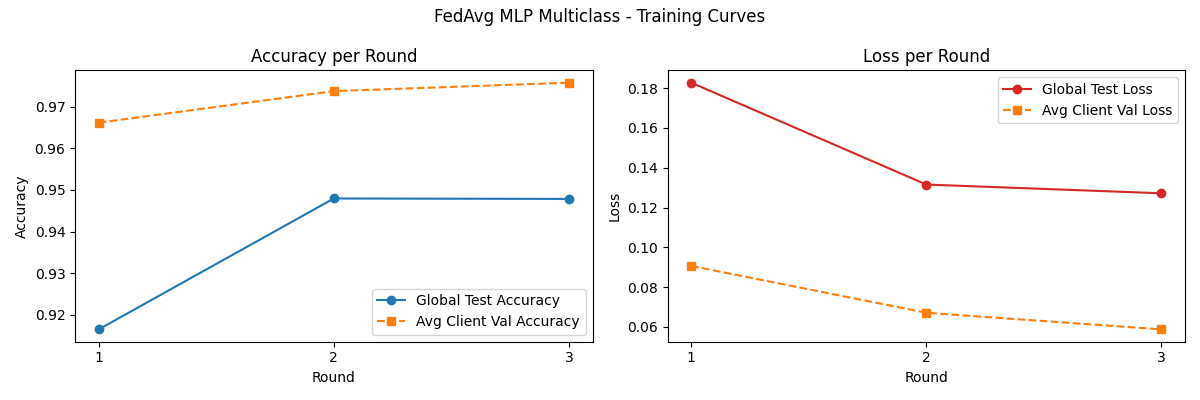
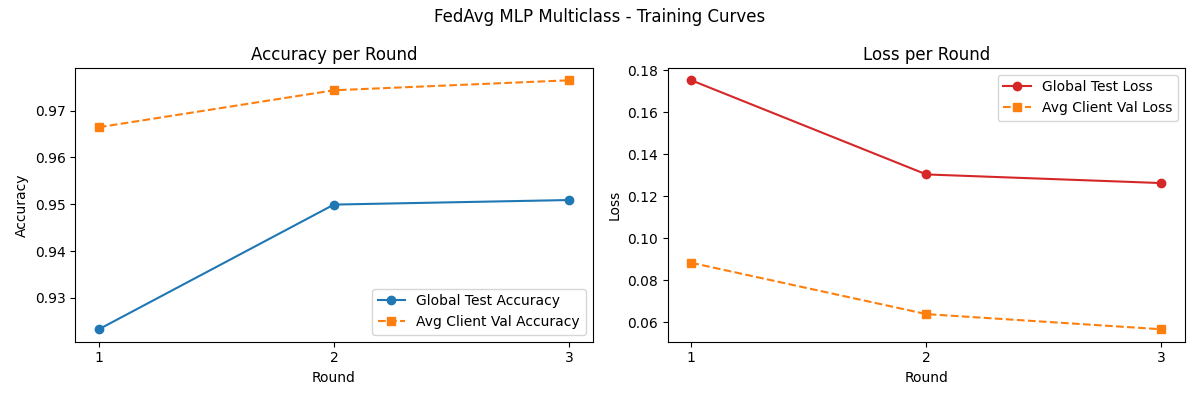
all charts images added + small naming changes

diff --git a/src/compare_models.py b/src/compare_models.py
@@ -40,8 +40,8 @@ if __name__ == '__main__':
     rf  = pd.read_csv(rf_csv).iloc[0]
     fed = pd.read_csv(fed_csv).iloc[0]
 
-    print(f'Random Forest → Accuracy: {rf["accuracy"]:.4f}  Macro-F1: {rf["macro_f1"]:.4f}')
-    print(f'FedAvg MLP    → Accuracy: {fed["accuracy"]:.4f}  Macro-F1: {fed["macro_f1"]:.4f}')
+    print(f'Random Forest - Accuracy: {rf["accuracy"]:.4f}  Macro-F1: {rf["macro_f1"]:.4f}')
+    print(f'FedAvg MLP    - Accuracy: {fed["accuracy"]:.4f}  Macro-F1: {fed["macro_f1"]:.4f}')
 
     """
     1. Overall metrics comparison from csv (accuracy, precision, recall, F1, FPR, FNR, AUC if binary)
@@ -70,7 +70,7 @@ if __name__ == '__main__':
     plt.title(f'Random Forest vs FedAvg ({suffix.capitalize()})- Overall Metrics')
     plt.legend()
     plt.tight_layout()
-    plt.savefig('charts/compare_models/comparison_{suffix}_rf_vs_fedavg_overall.png')
+    plt.savefig(f'charts/compare_models/comparison_{suffix}_rf_vs_fedavg_overall.png')
     plt.show()
 
     """
@@ -89,7 +89,7 @@ if __name__ == '__main__':
         axes[1].set_title('FedAvg MLP')
         fig.suptitle(f'Confusion Matrix Comparison ({suffix.capitalize()})- RF vs FedAvg')
         plt.tight_layout()
-        plt.savefig('charts/compare_models/comparison_{suffix}_rf_vs_fedavg_confusion.png')
+        plt.savefig(f'charts/compare_models/comparison_{suffix}_rf_vs_fedavg_confusion.png')
         plt.show()
     else:
         print('Confusion matrix PNGs not found — skipping that chart.')
@@ -112,15 +112,15 @@ if __name__ == '__main__':
         plt.title(f'Random Forest vs FedAvg ({suffix.capitalize()})- Per-Class F1')
         plt.legend()
         plt.tight_layout()
-        plt.savefig('charts/compare_models/comparison_{suffix}_rf_vs_fedavg_per_class_f1.png')
+        plt.savefig(f'charts/compare_models/comparison_{suffix}_rf_vs_fedavg_per_class_f1.png')
         plt.show()
 
     """
     4. ROC curves (binary only)
     """
     if cls == 'b':
-        rf_roc_path  = 'charts/rf/rf_binary_roc_curve.png'
-        fed_roc_path = 'charts/fedAvg/fedavg_{suffix}_roc_curve.png'
+        rf_roc_path  = f'charts/rf/rf_{suffix}_roc_curve.png'
+        fed_roc_path = f'charts/fedAvg/fedavg_{suffix}_roc_curve.png'
 
         if os.path.exists(rf_roc_path) and os.path.exists(fed_roc_path):
             fig, axes = plt.subplots(1, 2, figsize=(12, 5))
@@ -132,7 +132,7 @@ if __name__ == '__main__':
             axes[1].set_title('FedAvg MLP')
             fig.suptitle(f'ROC Curve Comparison ({suffix.capitalize()})- RF vs FedAvg')
             plt.tight_layout()
-            plt.savefig('charts/compare_models/comparison_{suffix}_rf_vs_fedavg_roc.png')
+            plt.savefig(f'charts/compare_models/comparison_{suffix}_rf_vs_fedavg_roc.png')
             plt.show()
         else:
             print('ROC curve PNGs not found — skipping that chart.')

diff --git a/src/mlp/compare_mlp.py b/src/mlp/compare_mlp.py
@@ -109,7 +109,7 @@ if __name__ == '__main__':
 
     fig.suptitle(f'Centralized MLP vs FedAvg ({suffix.capitalize()}- Training Curves & Time', fontsize=13, fontweight='bold')
     plt.tight_layout()
-    plt.savefig(f'charts/compare/comparison_mlp_vs_fedavg_{suffix}_training_curves_and_time.png')
+    plt.savefig(f'charts/compare_mlp/comparison_mlp_vs_fedavg_{suffix}_training_curves_and_time.png')
     plt.show()
 
     """
@@ -139,7 +139,7 @@ if __name__ == '__main__':
     plt.title(f'Centralized MLP vs FedAvg ({suffix.capitalize()})- Overall Metrics')
     plt.legend()
     plt.tight_layout()
-    plt.savefig(f'charts/compare/comparison_mlp_vs_fedavg_{suffix}_overall.png')
+    plt.savefig(f'charts/compare_mlp/comparison_mlp_vs_fedavg_{suffix}_overall.png')
     plt.show()
 
     """
@@ -158,7 +158,7 @@ if __name__ == '__main__':
         axes[1].set_title('FedAvg MLP')
         fig.suptitle(f'Centralized MLP vs FedAvg ({suffix.capitalize()})- Confusion Matrices')
         plt.tight_layout()
-        plt.savefig(f'charts/compare/comparison_mlp_vs_fedavg_{suffix}_confusion.png')
+        plt.savefig(f'charts/compare_mlp/comparison_mlp_vs_fedavg_{suffix}_confusion.png')
         plt.show()
     else:
         print('Confusion matrix PNGs not found — skipping.')
@@ -181,7 +181,7 @@ if __name__ == '__main__':
         plt.title(f'Centralized MLP vs FedAvg ({suffix.capitalize()})- Per-Class F1')
         plt.legend()
         plt.tight_layout()
-        plt.savefig(f'charts/compare/comparison_mlp_vs_fedavg_{suffix}_per_class_f1.png')
+        plt.savefig(f'charts/compare_mlp/comparison_mlp_vs_fedavg_{suffix}_per_class_f1.png')
         plt.show()
 
     """
@@ -201,7 +201,7 @@ if __name__ == '__main__':
             axes[1].set_title('FedAvg MLP')
             fig.suptitle(f'ROC Curve Comparison ({suffix.capitalize()})- MLP vs FedAvg')
             plt.tight_layout()
-            plt.savefig(f'charts/compare/comparison_mlp_vs_fedavg_{suffix}_roc.png')
+            plt.savefig(f'charts/compare_mlp/comparison_mlp_vs_fedavg_{suffix}_roc.png')
             plt.show()
         else:
             print('ROC curve PNGs not found — skipping.')

diff --git a/src/mlp/mlp_model.py b/src/mlp/mlp_model.py
@@ -34,7 +34,7 @@ def make_mlp(cls=DEFAULT_CLS):
             Input(shape=(18,)),
             Dense(256, activation='relu'),  
             Dense(128, activation='relu'), 
-            Dense(1, activation='softmax'), # output layer
+            Dense(2, activation='softmax'), # output layer
         ])
 
     """
@@ -47,8 +47,12 @@ def make_mlp(cls=DEFAULT_CLS):
     return model
 
 def train_model(model, x_train, y_train, E=DEFAULT_E, B=DEFAULT_B):
-    history = model.fit(x_train, y_train, epochs=E, 
-        batch_size=B, 
-        validation_split=0.2)
+    history = model.fit(x_train, 
+                        y_train, 
+                        epochs=E, 
+                        batch_size=B, 
+                        validation_split=0.2, 
+                        verbose=1
+                        )
     
     return history
